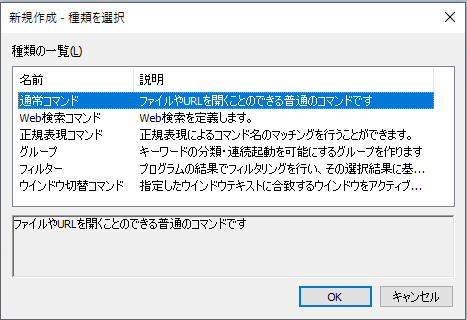
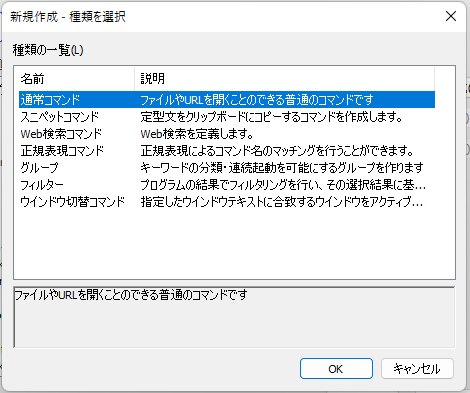
Update README

Changed region(s): [[0.0, 0.0, 1.0, 1.0]]

diff --git a/doc/help.md b/doc/help.md
@@ -124,9 +124,10 @@ Windows環境で動作する。以下の環境で動作確認済
 
 `new`コマンドを実行したときに選択できるコマンド種類について説明する
 
-以下の6つのコマンドが選択できる
+以下の7つのコマンドが選択できる
 
 - 通常コマンド
+- スニペットコマンド(定型文コマンド)
 - Web検索コマンド
 - グループコマンド
 - 正規表現コマンド
@@ -142,6 +143,14 @@ Windows環境で動作する。以下の環境で動作確認済
 - `コマンドの名前`にコマンド名(キーワード)を、`実行ファイル・URLなど`に、紐づけるファイルやURLを指定する。
 - プログラムを実行する場合、`パラメータ`に実行時オプションを指定することができる。
   - 実行時オプションに`$*` `$1` `$2`...を指定すると、入力欄でキーワードの後に入力した文字列をパラメータとして渡すことができる
+
+### スニペットコマンド(定型文コマンド)
+
+あらかじめ登録しておいた定型文をクリップボードにコピーするためのコマンド
+
+![](../image/new-snippetcommand.png)  
+
+- `コマンドの名前`にコマンド名(キーワード)を、`テキスト`に、定型文の内容を指定する。
 
 ### Web検索コマンド
 
@@ -502,6 +511,20 @@ Soyokaze配置ディレクトリ/
 - `表示方法`
   - 通常表示/最大表示/最小表示 を選ぶことができる
   - 起動するプログラムによっては指定が効かないこともある
+
+### 定型文の登録・編集
+
+![](../image/new-snippetcommand.png)
+
+- `コマンドの名前`
+  - 入力画面からスニペットコマンドを実行するためのキーワード  
+コマンドを実行すると、定型文がクリップボードにコピーされる。
+- `説明`
+  - コメント表示欄に記載される文字列。
+- `テキスト`
+  - 定型文を指定する。
+- `ホットキー`
+  - コマンドを呼び出すキーバインドを設定できる。設定したキーを押下すると、定型文をクリップボードにコピーできる。
 
 ### Web検索コマンドの登録・編集
 
@@ -868,6 +891,10 @@ Edge/Chromeのブックマークに対応している。
 ### new
 
 新規コマンド登録画面を表示する
+
+### newsnippet
+
+現在クリップボードにあるテキストを定型文として登録するための登録画面を表示する
 
 ### registwin
 
